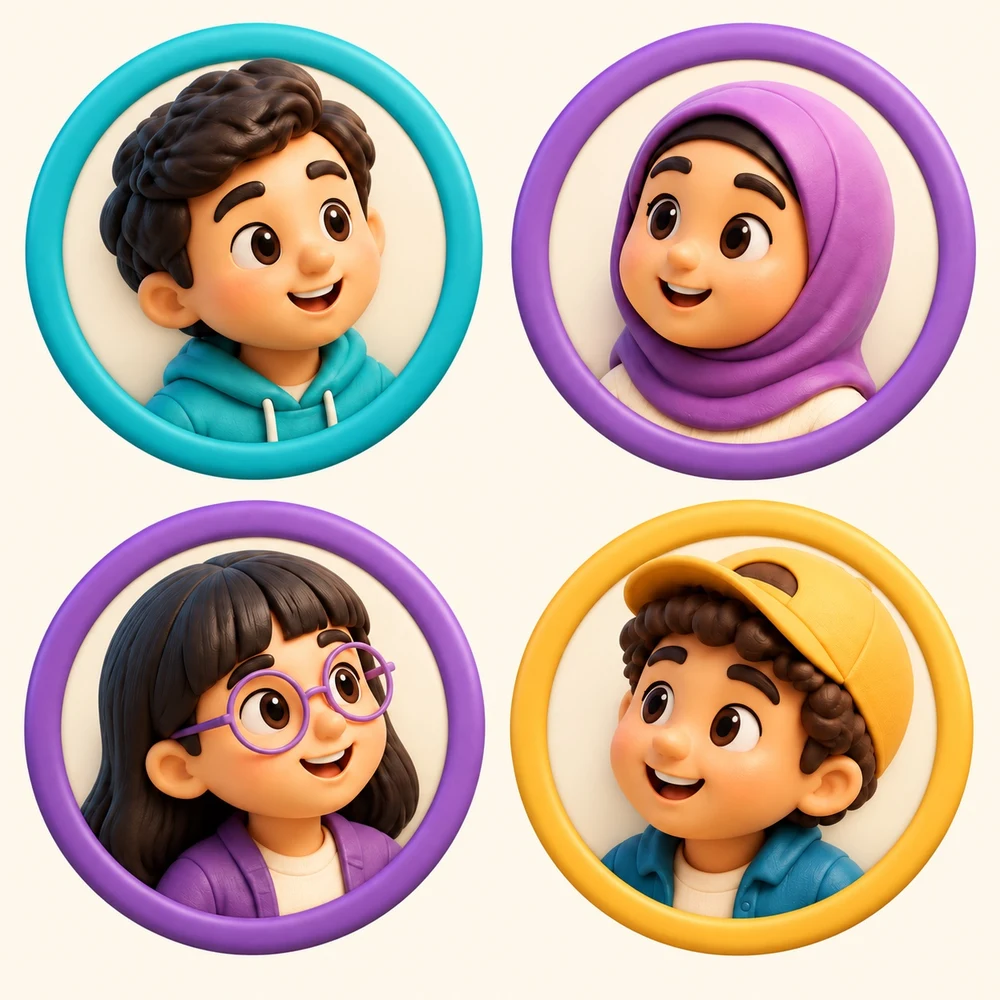
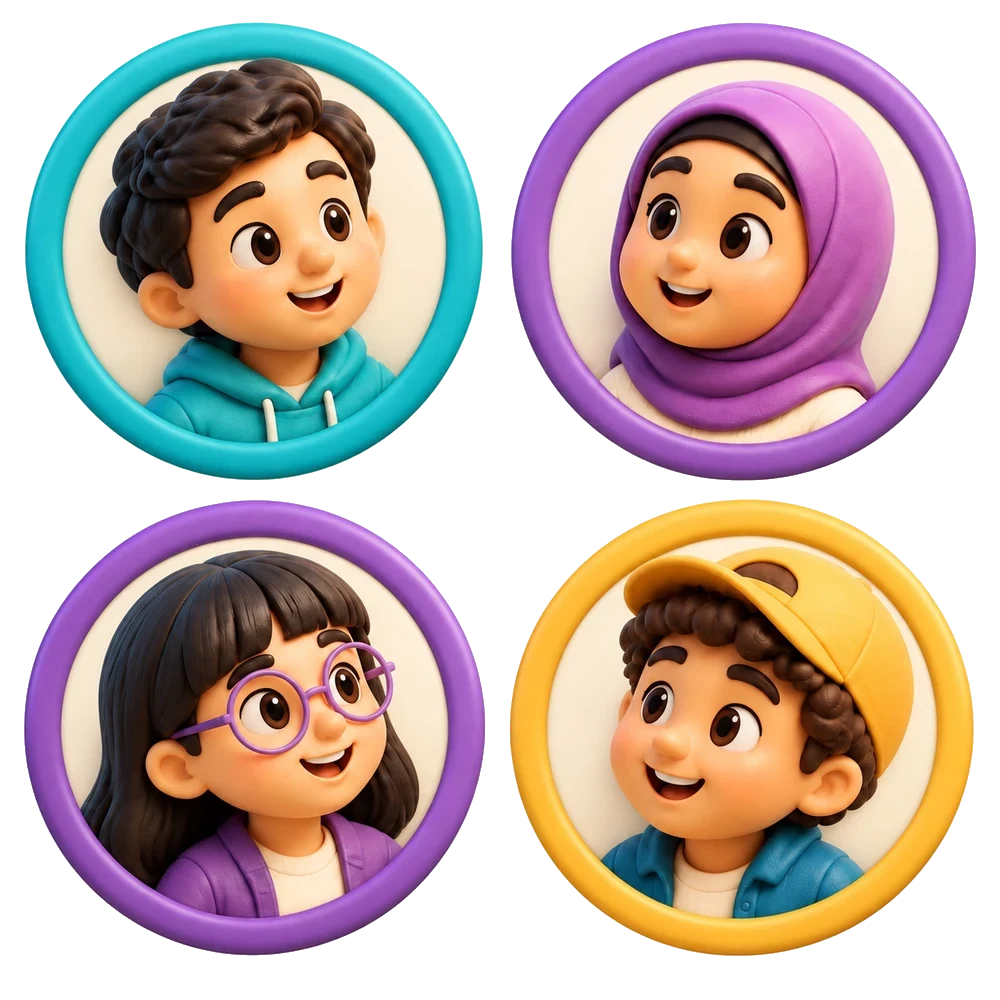
Give the clay artwork sheets a real alpha channel
The avatar, game-icon and trophy sheets shipped with baked ivory or
white backgrounds, so every placement on a tinted card or gradient
showed a pasted-on rectangle that mix-blend-mode could only partly hide.

Add scripts/art-alpha.mjs: keys the background by flood-filling from
the border with a soft alpha band and colour decontamination, keeping
enclosed ivory areas (avatar discs, bulb filament, hand). The flat
originals move to assets/flat/ for regeneration; the imported sheets
are the keyed output. npm run art:alpha regenerates, art:check verifies,
and a test asserts the sheets stay edge-transparent.

Claude-Session: https://claude.ai/code/session_01A8QeVSPSZ3vZr6y5571eNh

diff --git a/tests/brand-art.test.js b/tests/brand-art.test.js
@@ -1,0 +1,20 @@
+// لوحات الرسوم الصلصالية المستوردة في art.jsx يجب أن تكون شفافة الحواف:
+// الخلفية العاجية المدمجة كانت تظهر مستطيلًا «ملصقًا» على كل سطح ملوّن.
+import test from 'node:test';
+import assert from 'node:assert/strict';
+import { access } from 'node:fs/promises';
+import path from 'node:path';
+import { fileURLToPath } from 'node:url';
+import { checkSheets, SHEETS } from '../scripts/art-alpha.mjs';
+
+const ROOT = path.resolve(path.dirname(fileURLToPath(import.meta.url)), '..');
+const DIR = path.join(ROOT, 'src/shared/brand/assets');
+
+test('لوحات الرسوم الثلاث تحمل قناة ألفا وإطارها شفاف', async () => {
+  const sharp = (await import('sharp')).default;
+  assert.deepEqual(await checkSheets(sharp, DIR), []);
+});
+
+test('الأصول المسطّحة محفوظة في assets/flat لإعادة التوليد', async () => {
+  for (const name of SHEETS) await access(path.join(DIR, 'flat', `${name}.webp`));
+});
